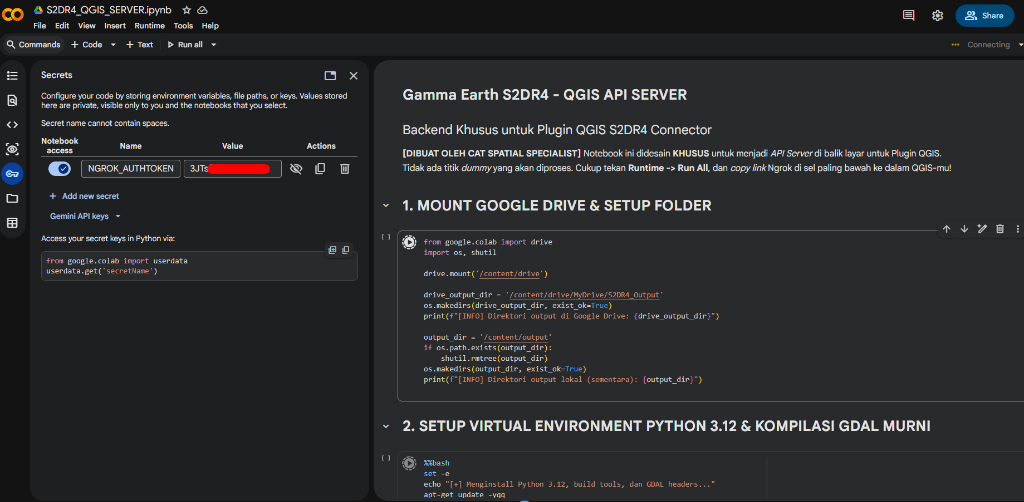
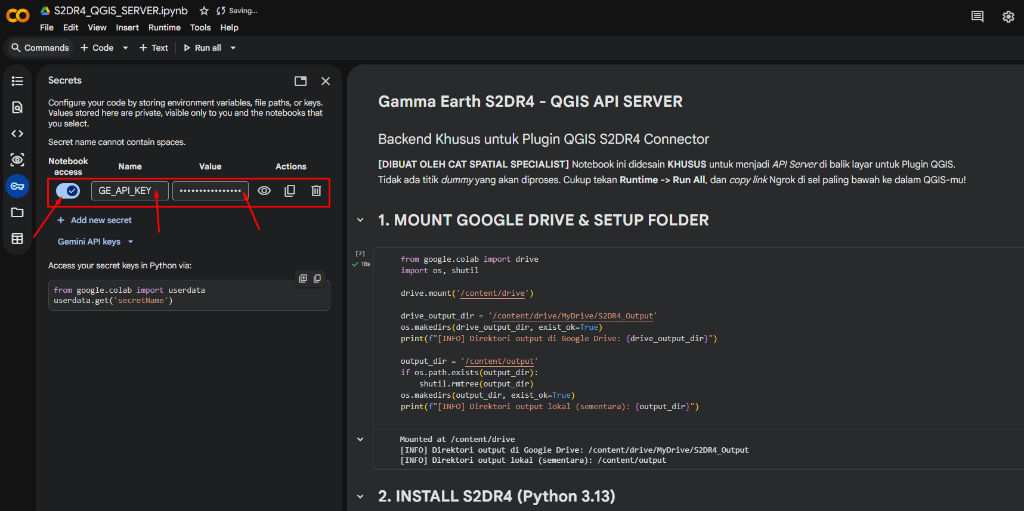
Add screenshot of Colab Secrets setup to README

diff --git a/README.md b/README.md
@@ -21,6 +21,9 @@ Sistem S2DR4 membutuhkan API Key gratis dari Gamma Earth untuk mendownload citra
 2. Dapatkan API Key kamu di dashboard.
 3. Buka **Google Colab** > klik menu **Secrets** (ikon Kunci di bilah kiri).
 4. Tambahkan *secret* baru dengan nama `GE_API_KEY` dan masukkan API Key kamu sebagai *value*-nya, lalu nyalakan tombol *toggle* akses ke notebook.
+   
+   ![Setup Colab Secrets](images/colab_secrets.png)
+   
 5. Panduan visual lengkap: [Connect Google Colab Account](https://demo.gamma.earth/knowledge-base/connect-google-colab-account.html)
 
 ---
